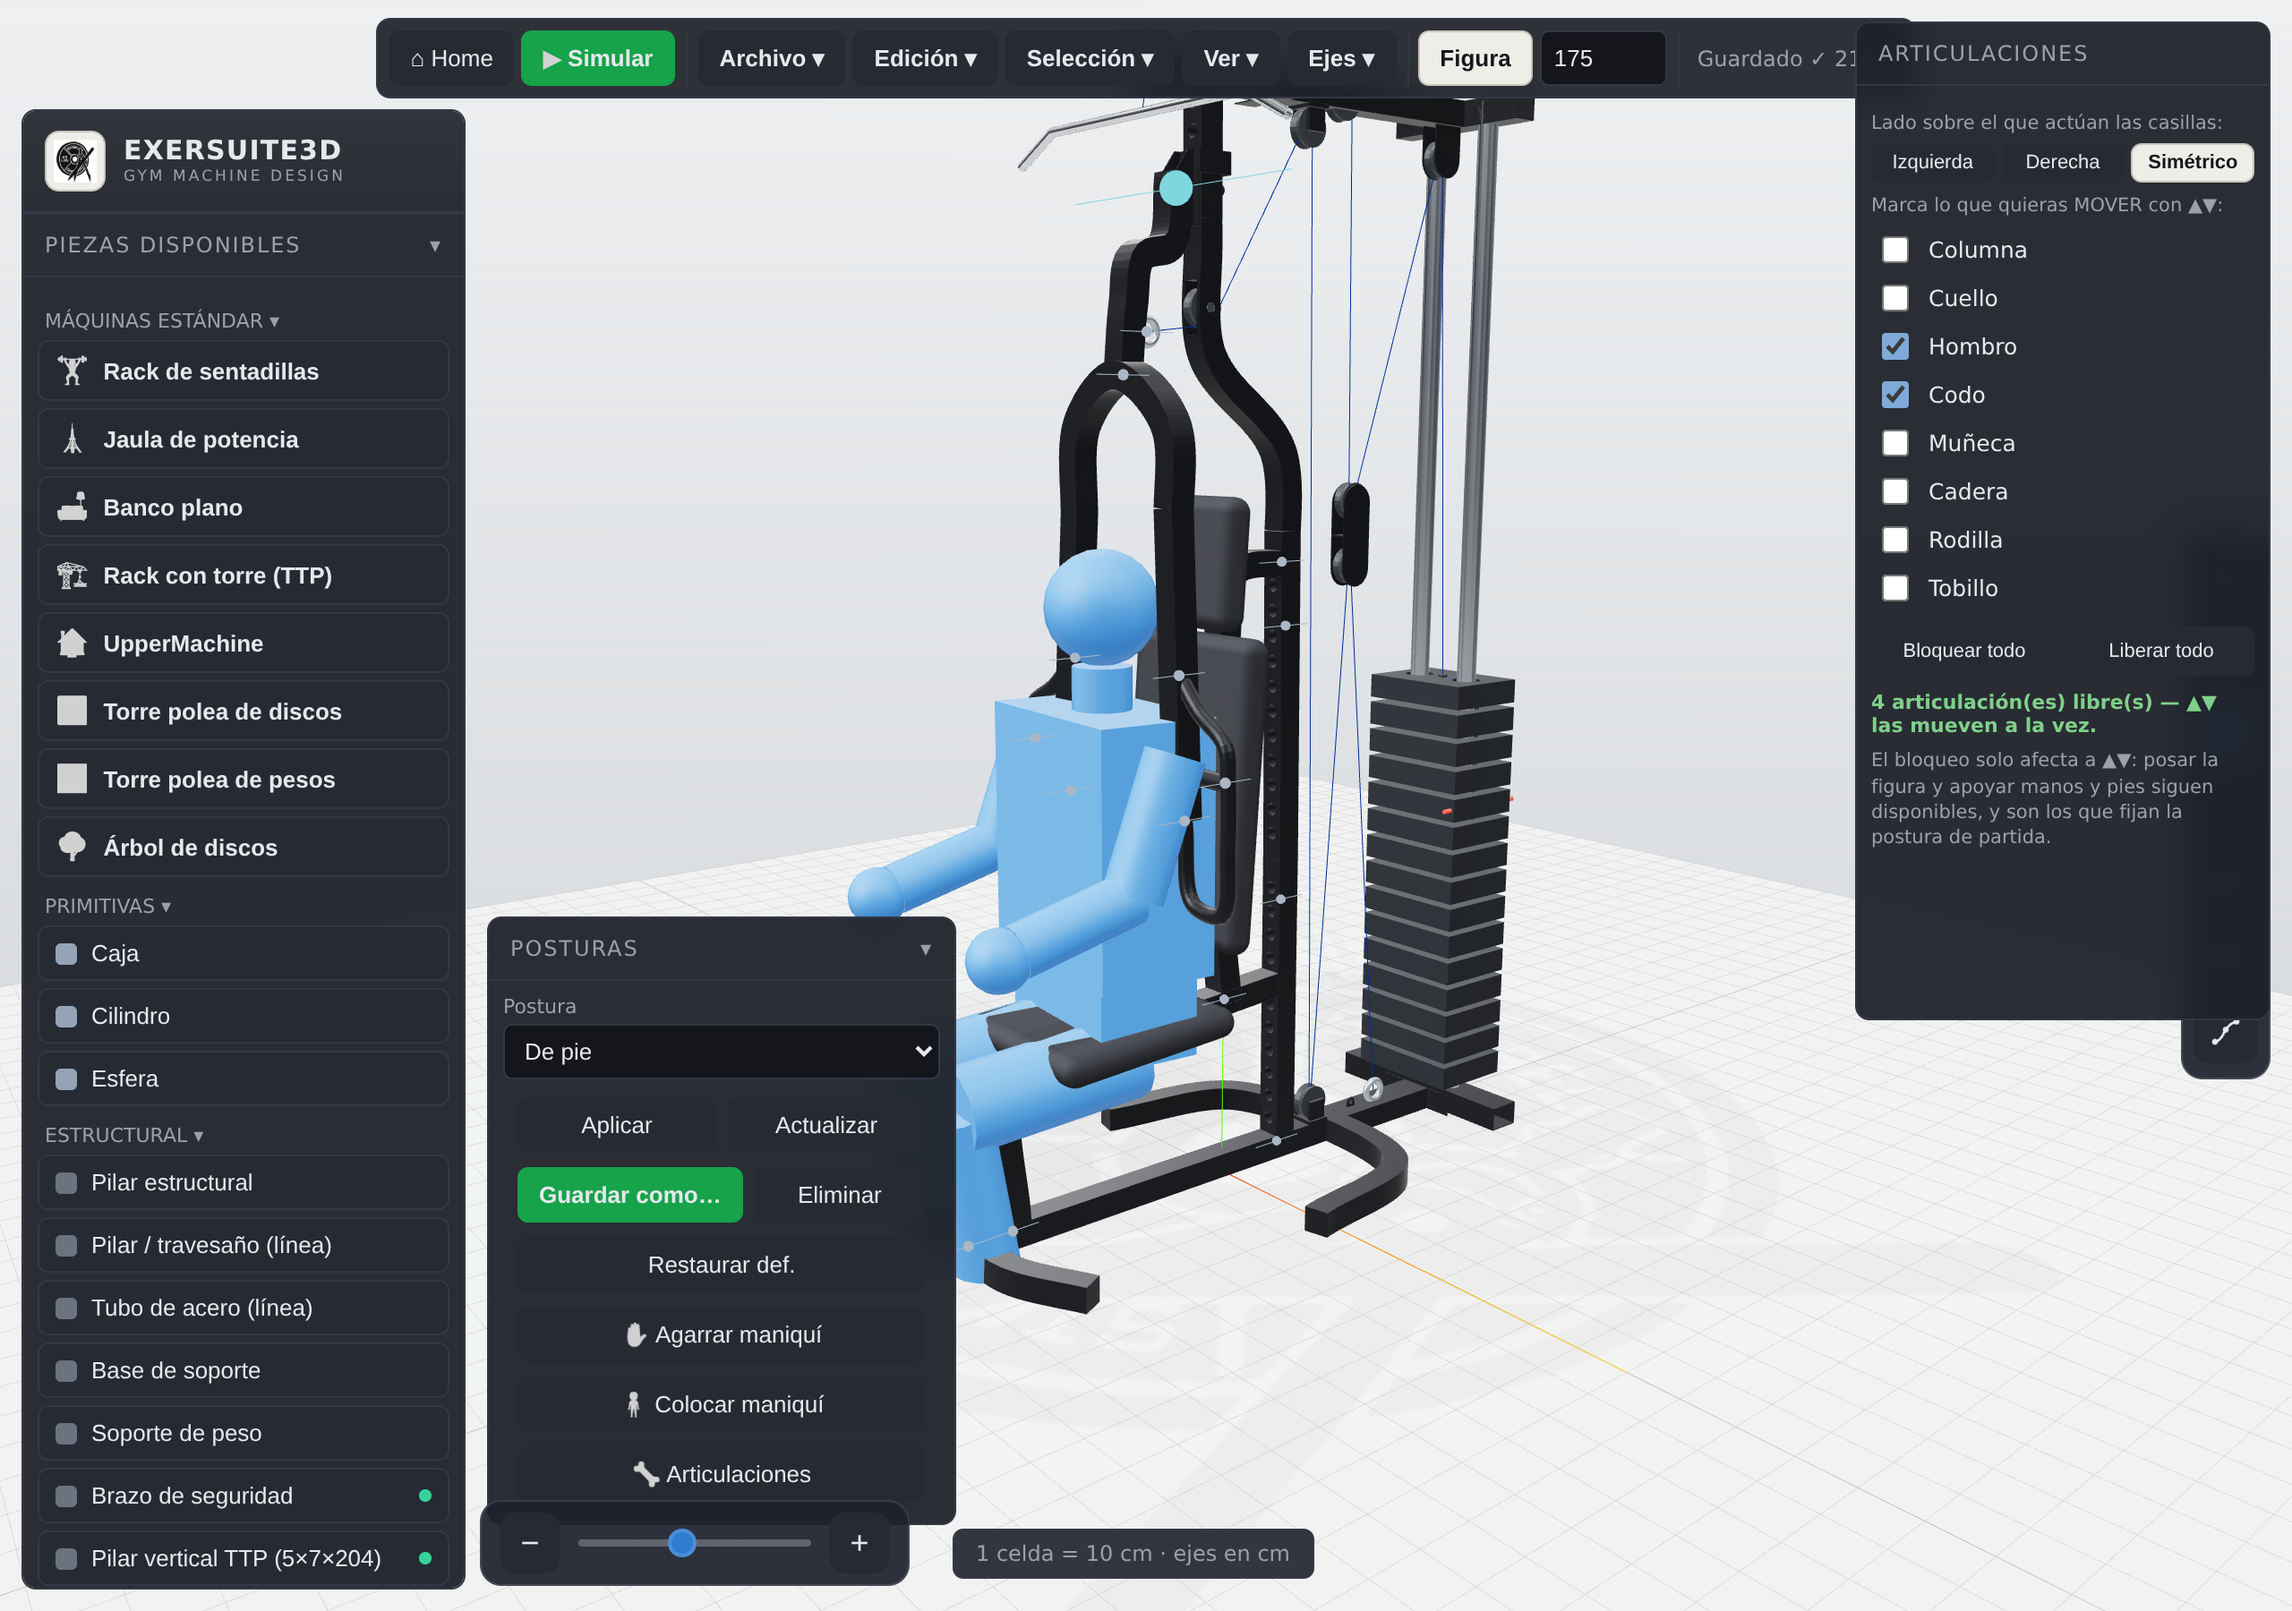
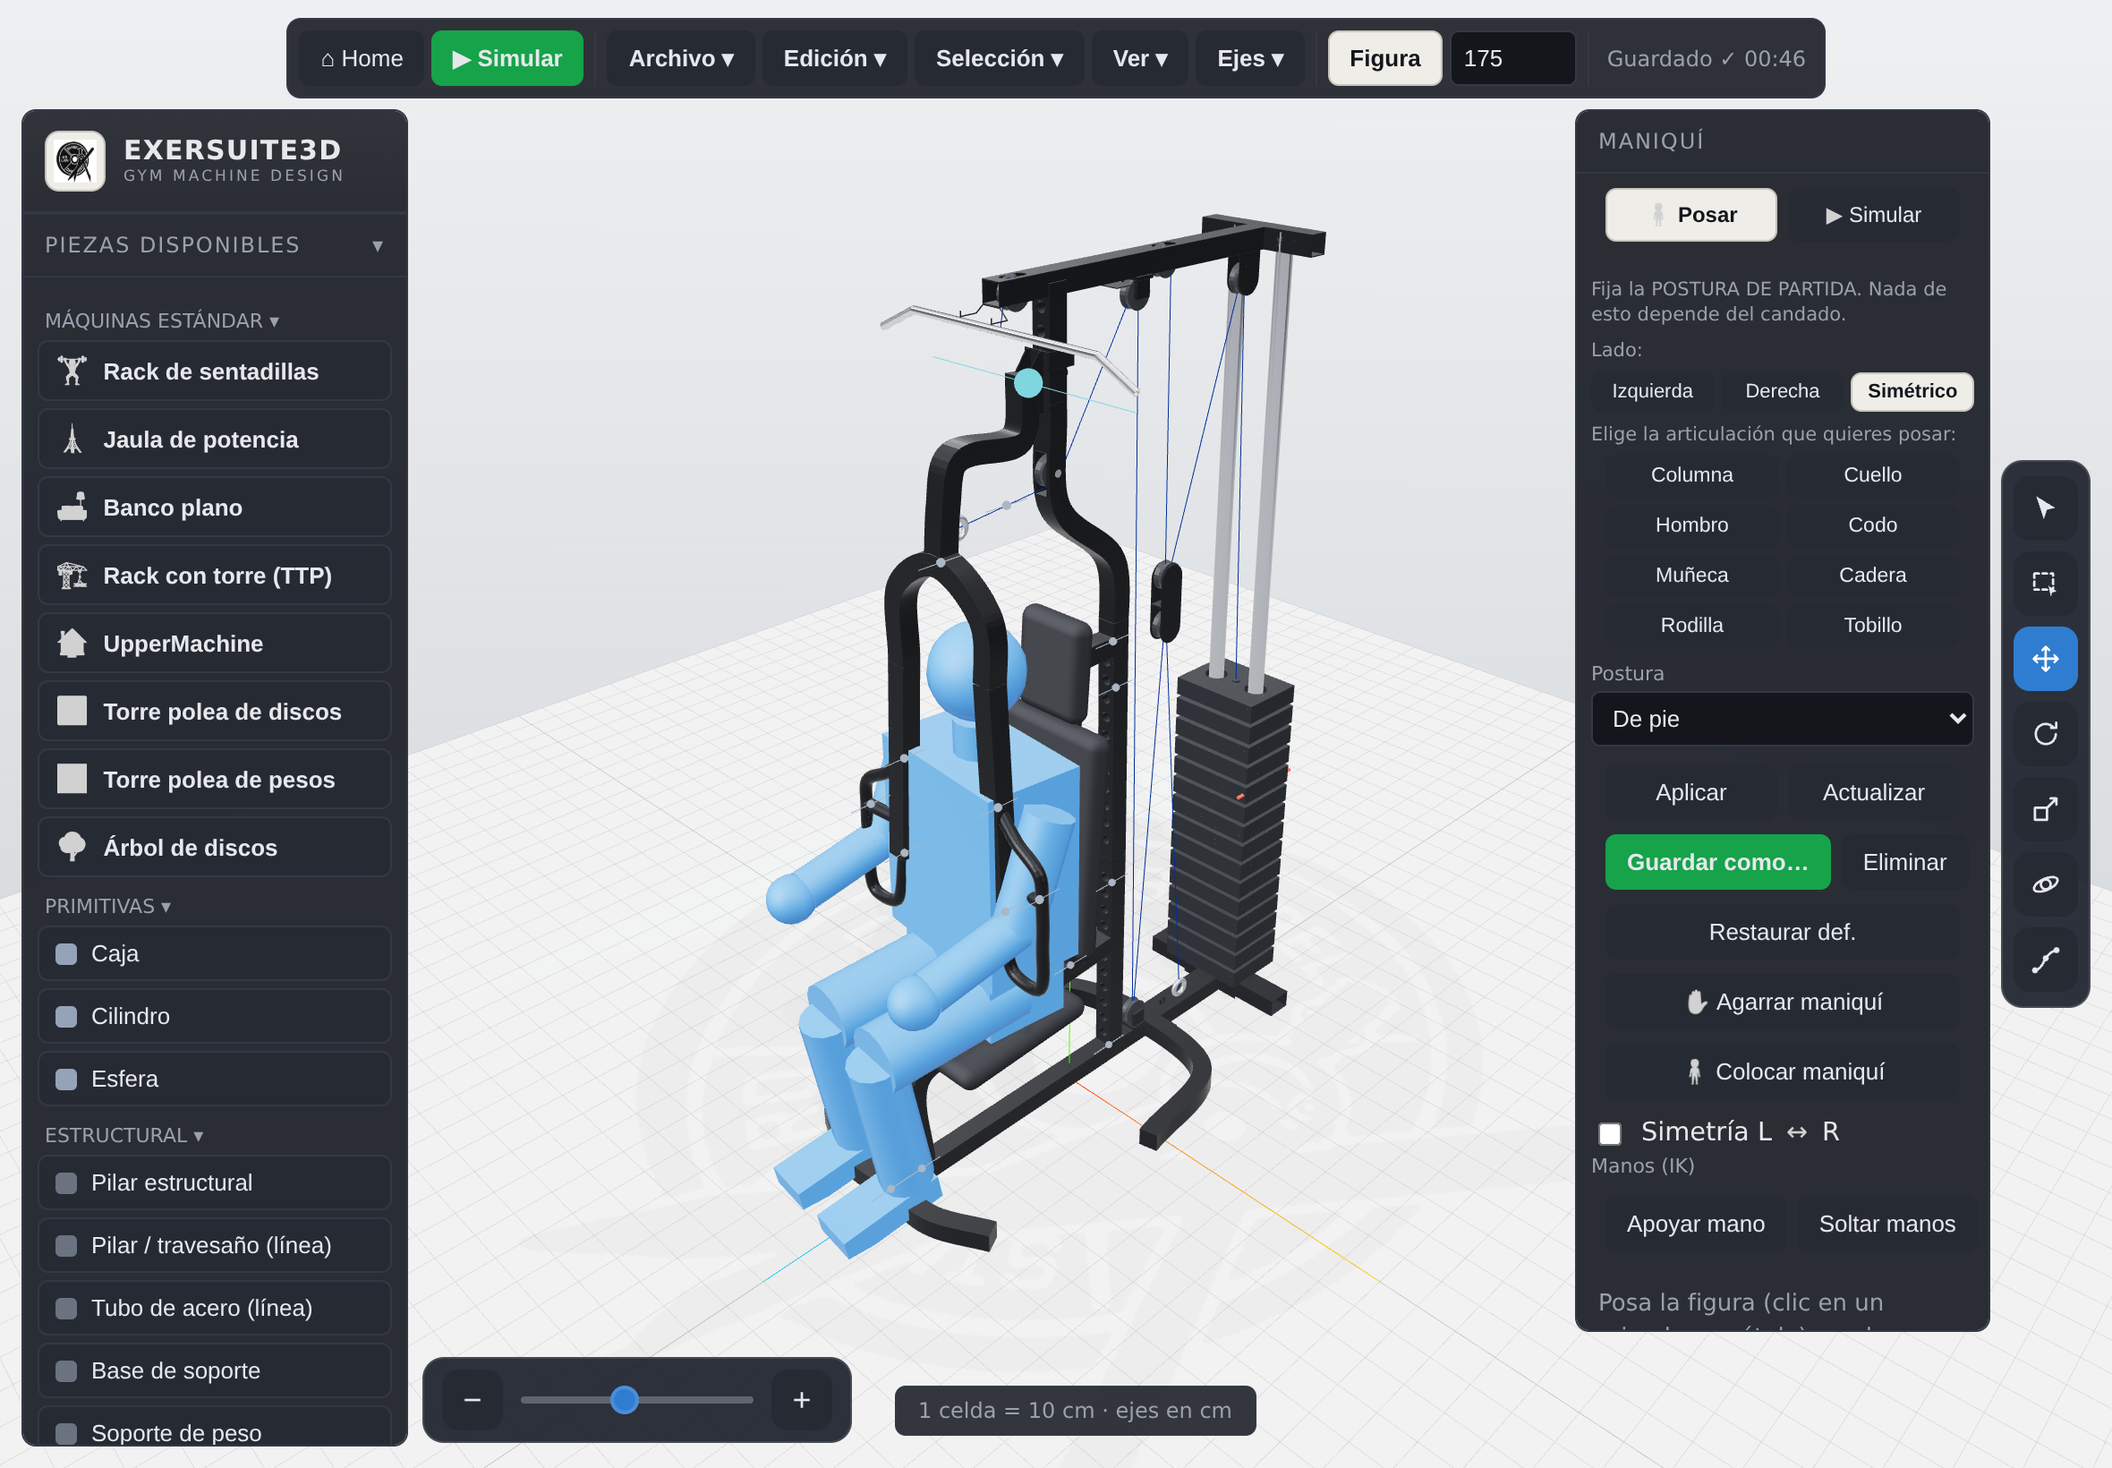
Cápsula del instructivo al día para la ventana única del maniquí
La ayuda en la app mostraba la ventana de Articulaciones anterior, que dejó de
existir al fundirse con Posturas. La nueva cápsula enseña la ventana única en
modo POSAR con su selector de articulación, la figura sentada apoyando en el
asiento y el respaldo, y el Toolbox visible en su carril.

Claude-Session: https://claude.ai/code/session_014fW5t7kk9L1bzdCPk4pmbH

diff --git a/CHANGELOG.md b/CHANGELOG.md
@@ -7,6 +7,13 @@ y el proyecto usa [Versionado Semántico](https://semver.org/lang/es/).
 
 ## [0.2.48] — 2026-08-11
 
+### Cambiado
+
+- Cápsula del Instructivo al día: la ayuda del maniquí mostraba la ventana de
+  Articulaciones anterior, que ya no existe. Ahora enseña la ventana única en
+  modo POSAR con su selector de articulación, la figura sentada apoyando de
+  verdad y el Toolbox visible en su carril.
+
 ### Corregido
 
 - **LAS VENTANAS YA NO SE PISAN.** Auditoría de la interfaz en 5 tamaños de
